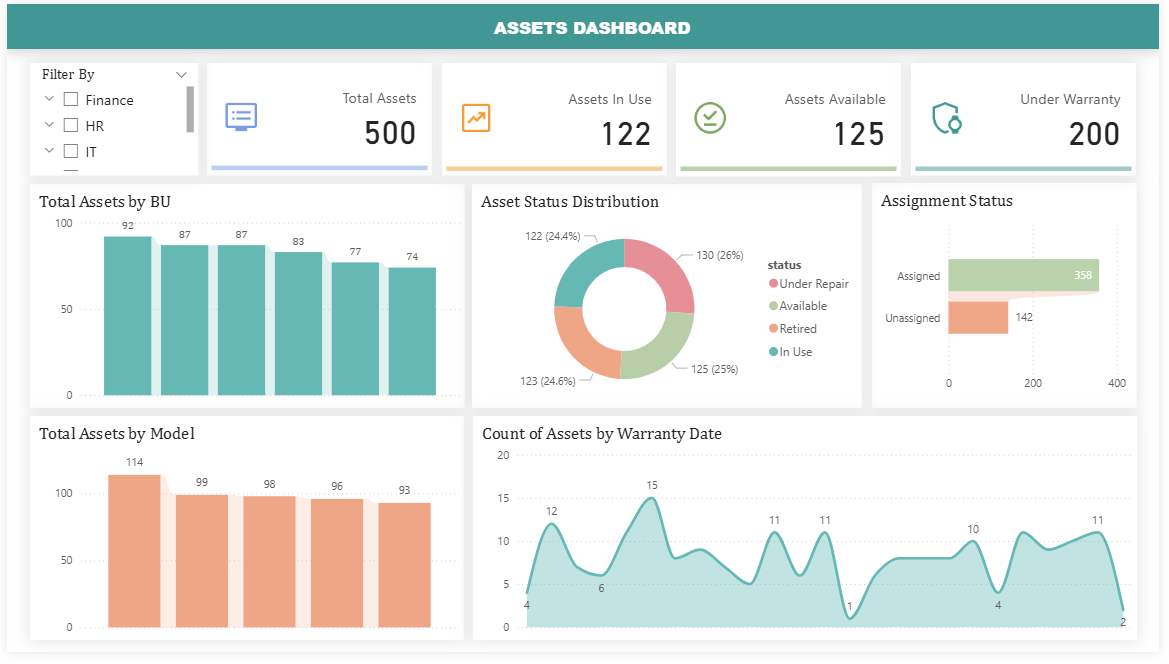
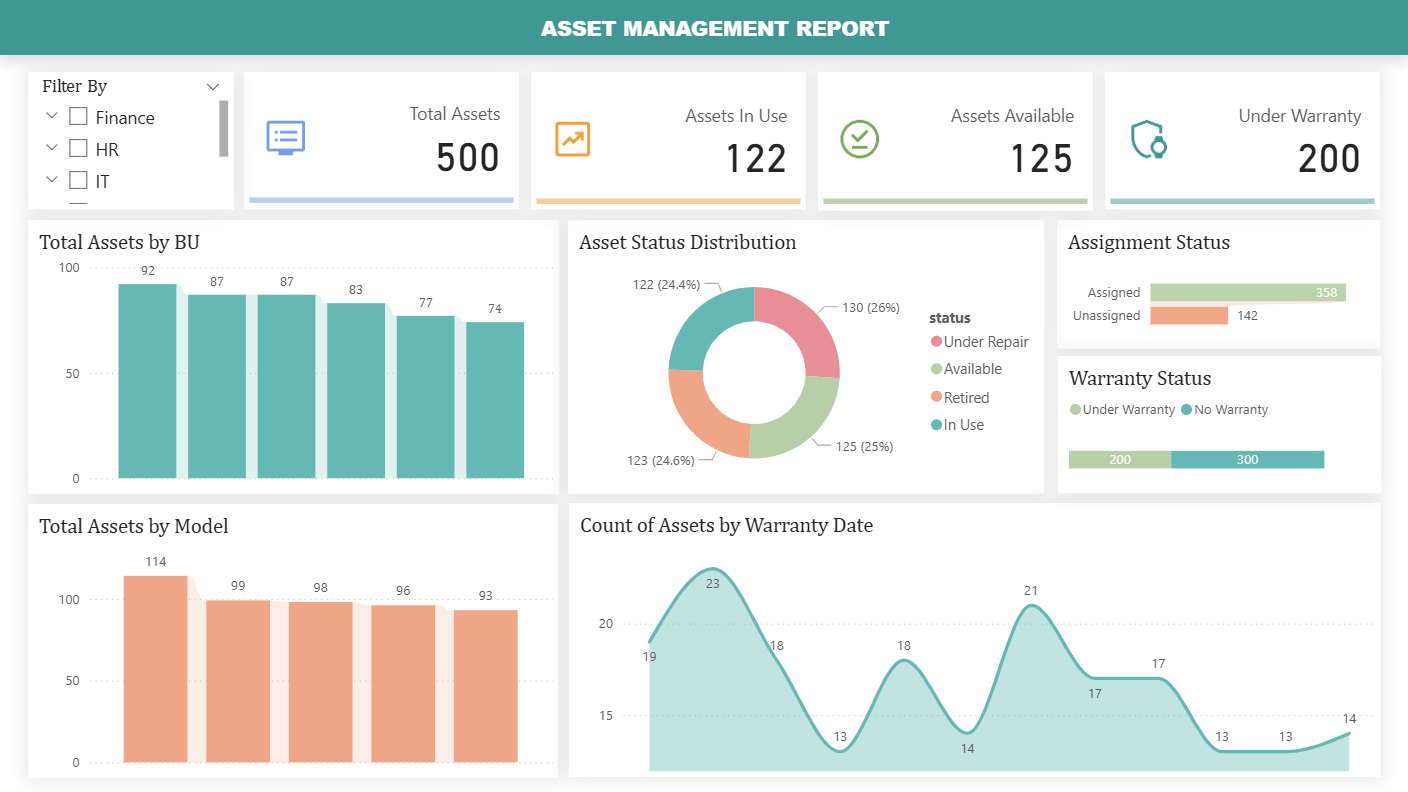
Update Asset Image

diff --git a/index.html b/index.html
@@ -584,12 +584,11 @@
                         <img src="img/projects/assets dashboard.png" class="d-block w-100 rounded"
                             alt="asset management">
                         <div class="carousel-caption bg-lemon rounded p-3">
-                            <h1>Asset Management</h1>
+                            <h1>Asset Management Report</h1>
                             <p>
                                 This Asset Management Report provides an overview of all company assets, showing their
                                 status, category,
-                                warranty,
-                                obsolescence, and distribution across departments. It helps track usage, monitor
+                                warranty, and distribution across departments. It helps track usage, monitor
                                 conditions, and support
                                 decision-making
                                 for asset management.
